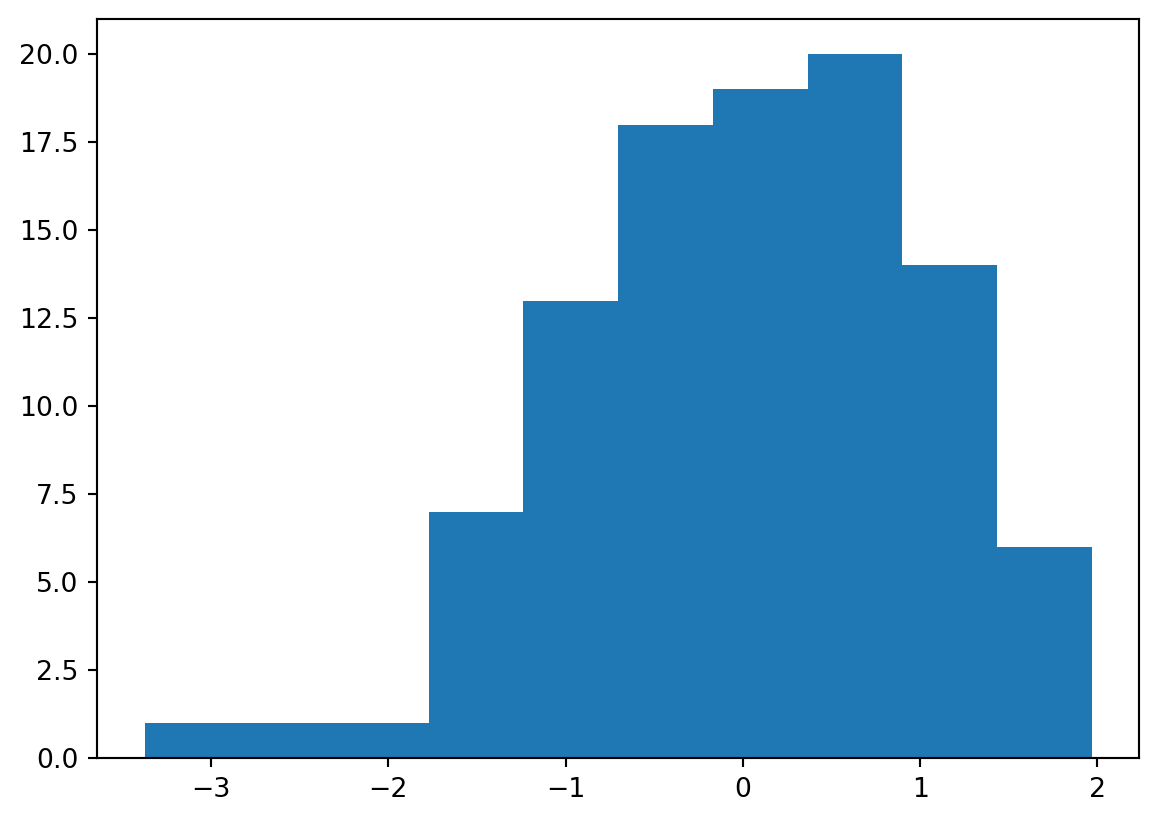
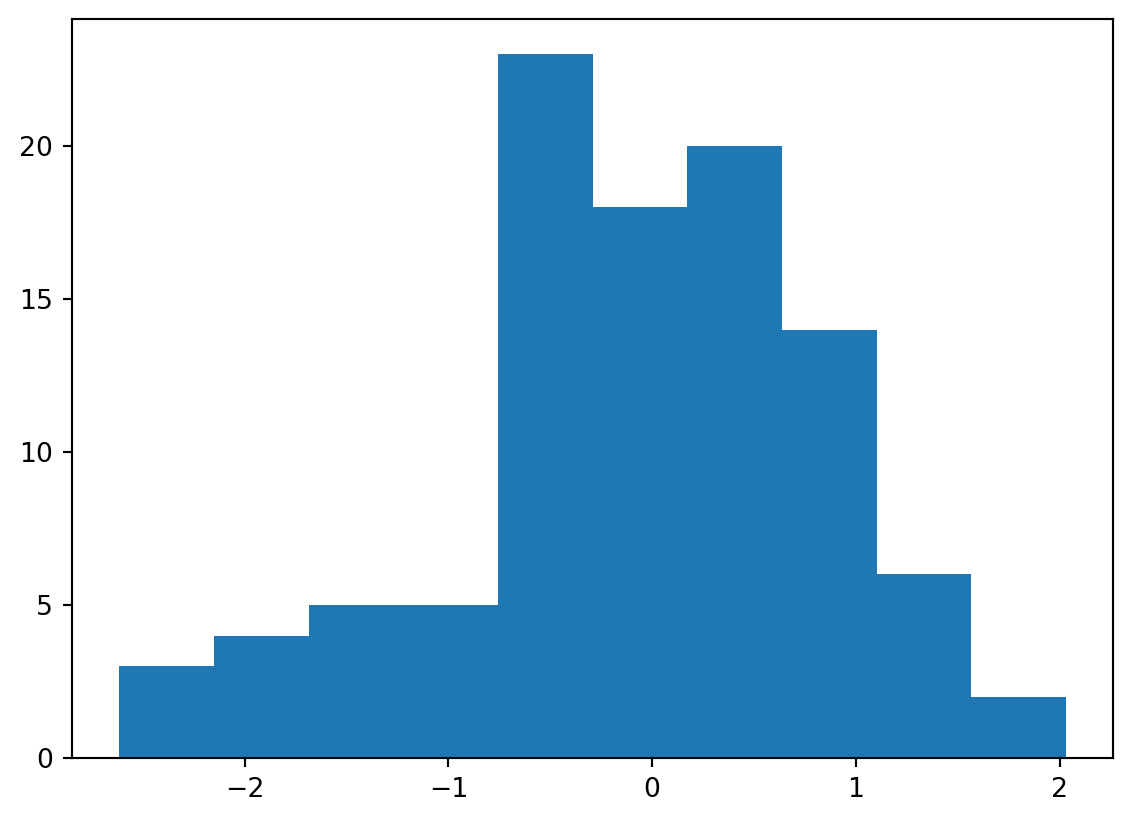
Built site for gh-pages

diff --git a/units/unit1.html b/units/unit1.html
@@ -254,6 +254,7 @@ window.Quarto = {
   <li><a href="#styled-div-via-direct-html" id="toc-styled-div-via-direct-html" class="nav-link" data-scroll-target="#styled-div-via-direct-html">Styled div via direct html</a></li>
   <li><a href="#a-callout" id="toc-a-callout" class="nav-link" data-scroll-target="#a-callout">A callout</a></li>
   <li><a href="#tabset" id="toc-tabset" class="nav-link" data-scroll-target="#tabset">Tabset</a></li>
+  <li><a href="#a-basic-markdown-table" id="toc-a-basic-markdown-table" class="nav-link" data-scroll-target="#a-basic-markdown-table">A basic Markdown table</a></li>
   </ul>
 </nav>
     </div>
@@ -283,7 +284,7 @@ window.Quarto = {
 <p>This is an example of using qmd as the source document.</p>
 <section id="evaluated-python-code-chunk-with-a-plot" class="level2">
 <h2 class="anchored" data-anchor-id="evaluated-python-code-chunk-with-a-plot">Evaluated Python code chunk, with a plot</h2>
-<div id="28a2a1bc" class="cell" data-execution_count="1">
+<div id="36c41697" class="cell" data-execution_count="1">
 <details open="" class="code-fold">
 <summary>Code</summary>
 <div class="sourceCode cell-code" id="cb1"><pre class="sourceCode python code-with-copy"><code class="sourceCode python"><span id="cb1-1"><a href="#cb1-1" aria-hidden="true" tabindex="-1"></a><span class="im">import</span> numpy <span class="im">as</span> np</span>
@@ -296,12 +297,12 @@ window.Quarto = {
 <div class="cell-output cell-output-display">
 <div>
 <figure class="figure">
-<p><img src="unit1_files/figure-html/cell-2-output-1.png" width="566" height="411" class="figure-img"></p>
+<p><img src="unit1_files/figure-html/cell-2-output-1.png" width="566" height="413" class="figure-img"></p>
 </figure>
 </div>
 </div>
 <div class="cell-output cell-output-display" data-execution_count="1">
-<pre><code>-0.10771421685487213</code></pre>
+<pre><code>-0.011892227522277109</code></pre>
 </div>
 </div>
 </section>
@@ -354,7 +355,7 @@ Tip with Title
 </div>
 <div id="tabset-1-2" class="tab-pane" role="tabpanel" aria-labelledby="tabset-1-2-tab">
 <p>This code is executed.</p>
-<div id="4d13e853" class="cell" data-execution_count="2">
+<div id="9e02d725" class="cell" data-execution_count="2">
 <details open="" class="code-fold">
 <summary>Code</summary>
 <div class="sourceCode cell-code" id="cb4"><pre class="sourceCode python code-with-copy"><code class="sourceCode python"><span id="cb4-1"><a href="#cb4-1" aria-hidden="true" tabindex="-1"></a><span class="kw">def</span> fizz_buzz(num):</span>
@@ -376,6 +377,39 @@ Tip with Title
 </div>
 </div>
 </div>
+</section>
+<section id="a-basic-markdown-table" class="level2">
+<h2 class="anchored" data-anchor-id="a-basic-markdown-table">A basic Markdown table</h2>
+<table class="caption-top table">
+<thead>
+<tr class="header">
+<th>Default</th>
+<th style="text-align: left;">Left</th>
+<th style="text-align: right;">Right</th>
+<th style="text-align: right;">Center</th>
+</tr>
+</thead>
+<tbody>
+<tr class="odd">
+<td>12</td>
+<td style="text-align: left;">12</td>
+<td style="text-align: right;">12</td>
+<td style="text-align: right;">12</td>
+</tr>
+<tr class="even">
+<td>123</td>
+<td style="text-align: left;">123</td>
+<td style="text-align: right;">123</td>
+<td style="text-align: right;">123</td>
+</tr>
+<tr class="odd">
+<td>1</td>
+<td style="text-align: left;">1</td>
+<td style="text-align: right;">1</td>
+<td style="text-align: right;">1</td>
+</tr>
+</tbody>
+</table>
 
 
 <!-- -->
@@ -940,6 +974,14 @@ window.document.addEventListener("DOMContentLoaded", function (event) {
 <span id="cb6-88"><a href="#cb6-88" aria-hidden="true" tabindex="-1"></a><span class="in">```</span></span>
 <span id="cb6-89"><a href="#cb6-89" aria-hidden="true" tabindex="-1"></a></span>
 <span id="cb6-90"><a href="#cb6-90" aria-hidden="true" tabindex="-1"></a>:::</span>
+<span id="cb6-91"><a href="#cb6-91" aria-hidden="true" tabindex="-1"></a></span>
+<span id="cb6-92"><a href="#cb6-92" aria-hidden="true" tabindex="-1"></a><span class="fu">## A basic Markdown table</span></span>
+<span id="cb6-93"><a href="#cb6-93" aria-hidden="true" tabindex="-1"></a></span>
+<span id="cb6-94"><a href="#cb6-94" aria-hidden="true" tabindex="-1"></a>| Default | Left | Right | Center |</span>
+<span id="cb6-95"><a href="#cb6-95" aria-hidden="true" tabindex="-1"></a>|----|:--|---:|-----------------------:|</span>
+<span id="cb6-96"><a href="#cb6-96" aria-hidden="true" tabindex="-1"></a>| 12      | 12   |    12 |   12   |</span>
+<span id="cb6-97"><a href="#cb6-97" aria-hidden="true" tabindex="-1"></a>| 123     | 123  |   123 |  123   |</span>
+<span id="cb6-98"><a href="#cb6-98" aria-hidden="true" tabindex="-1"></a>| 1       | 1    |     1 |   1    |</span>
 </code><button title="Copy to Clipboard" class="code-copy-button" data-in-quarto-modal=""><i class="bi"></i></button></pre></div>
 </div></div></div></div></div>
 </div> <!-- /content -->

diff --git a/index.html b/index.html
@@ -359,11 +359,11 @@ Welcome to Week 2
 
            <tr>
            
-           <th scope="row" rowspan="2">Aug 24:</th>
+           <th id="th-schedule" scope="row" rowspan="2">Aug 24:</th>
            
-           <td><strong class="label label-Lecture">Lecture 1</strong> <a href="./units/unit1.html" target="_blank">Introduction</a></td>
+           <td id="td-schedule"><strong class="label label-Lecture">Lecture 1</strong> <a href="./units/unit1.html" target="_blank">Introduction</a></td>
            
-                <td>
+                <td id="td-schedule">
                 
                   <a href="https://berkeley.edu">Note 1</a>
                   
@@ -377,7 +377,7 @@ Welcome to Week 2
 
            <tr>
            
-           <td><strong class="label label-Participation">Participation 1</strong> <a href="https://berkeley.edu" target="_blank">Lecture Participation 1</a></td>
+           <td id="td-schedule"><strong class="label label-Participation">Participation 1</strong> <a href="https://berkeley.edu" target="_blank">Lecture Participation 1</a></td>
            
                 <td></td>
            
@@ -390,19 +390,9 @@ Welcome to Week 2
 
            <tr>
            
-           <th scope="row" rowspan="3">Aug 25:</th>
+           <th id="th-schedule" scope="row" rowspan="3">Aug 25:</th>
            
-           <td><strong class="label label-Lab">Lab 1</strong> <a href="https://berkeley.edu" target="_blank">Prerequisite Coding (due Aug 29)</a></td>
-           
-                <td></td>
-           
-                
-           </tr>
-        
-
-           <tr>
-           
-           <td><strong class="label label-Homework">Homework 1A</strong> <a href="https://berkeley.edu" target="_blank">Plotting and Permutation Test (due Aug 31)</a></td>
+           <td id="td-schedule"><strong class="label label-Lab">Lab 1</strong> <a href="https://berkeley.edu" target="_blank">Prerequisite Coding (due Aug 29)</a></td>
            
                 <td></td>
            
@@ -412,7 +402,17 @@ Welcome to Week 2
 
            <tr>
            
-           <td><strong class="label label-Homework">Homework 1B</strong> <a href="https://berkeley.edu" target="_blank">Prerequisite Math (due Aug 31)</a></td>
+           <td id="td-schedule"><strong class="label label-Homework">Homework 1A</strong> <a href="https://berkeley.edu" target="_blank">Plotting and Permutation Test (due Aug 31)</a></td>
+           
+                <td></td>
+           
+                
+           </tr>
+        
+
+           <tr>
+           
+           <td id="td-schedule"><strong class="label label-Homework">Homework 1B</strong> <a href="https://berkeley.edu" target="_blank">Prerequisite Math (due Aug 31)</a></td>
            
                 <td></td>
            
@@ -437,9 +437,9 @@ Welcome to Week 2
 
            <tr>
            
-           <th scope="row" rowspan="2">Aug 29:</th>
+           <th id="th-schedule" scope="row" rowspan="2">Aug 29:</th>
            
-           <td><strong class="label label-Lecture">Lecture 2</strong> <a href="./units/unit2.html" target="_blank">Pandas 1</a></td>
+           <td id="td-schedule"><strong class="label label-Lecture">Lecture 2</strong> <a href="./units/unit2.html" target="_blank">Pandas 1</a></td>
            
                 <td></td>
            
@@ -449,9 +449,9 @@ Welcome to Week 2
 
            <tr>
            
-           <td><strong class="label label-Participation">Participation 2</strong> <a href="./units/unit3.html" target="_blank">Lecture Participation 2</a></td>
+           <td id="td-schedule"><strong class="label label-Participation">Participation 2</strong> <a href="./units/unit3.html" target="_blank">Lecture Participation 2</a></td>
            
-                <td>
+                <td id="td-schedule">
                 
                 </td>
            

diff --git a/units/unit3.html b/units/unit3.html
@@ -285,7 +285,7 @@ $$
 <p>This is an example of using qmd as the source document with pdf as one target. I’ve taken out the qmd stuff that doesn’t seem to render to pdf.</p>
 <section id="evaluated-python-code-chunk-with-a-plot" class="level2">
 <h2 class="anchored" data-anchor-id="evaluated-python-code-chunk-with-a-plot">Evaluated Python code chunk, with a plot</h2>
-<div id="23564796" class="cell" data-execution_count="1">
+<div id="6c27a822" class="cell" data-execution_count="1">
 <details open="" class="code-fold">
 <summary>Code</summary>
 <div class="sourceCode cell-code" id="cb1"><pre class="sourceCode python code-with-copy"><code class="sourceCode python"><span id="cb1-1"><a href="#cb1-1" aria-hidden="true" tabindex="-1"></a><span class="im">import</span> numpy <span class="im">as</span> np</span>
@@ -298,12 +298,12 @@ $$
 <div class="cell-output cell-output-display">
 <div>
 <figure class="figure">
-<p><img src="unit3_files/figure-html/cell-2-output-1.png" width="579" height="411" class="figure-img"></p>
+<p><img src="unit3_files/figure-html/cell-2-output-1.png" width="566" height="411" class="figure-img"></p>
 </figure>
 </div>
 </div>
 <div class="cell-output cell-output-display" data-execution_count="1">
-<pre><code>0.02780378200781541</code></pre>
+<pre><code>-0.07562102396687749</code></pre>
 </div>
 </div>
 </section>
@@ -316,7 +316,7 @@ $$
 <section id="latex-macro" class="level2">
 <h2 class="anchored" data-anchor-id="latex-macro">LaTeX macro</h2>
 <blockquote class="blockquote">
-<p><strong>Warning</strong>: having <code>include-before-body</code> in the yaml header of this file causes extra space at top of page.</p>
+<p><strong>Warning</strong>: having <code>include-before-body</code> in the yaml header of this file, as seemingly needed to enable macros, causes extra space at top of page.</p>
 </blockquote>
 <p><span class="math display">\[
 A = X \trans Y
@@ -836,7 +836,7 @@ window.document.addEventListener("DOMContentLoaded", function (event) {
 <span id="cb3-37"><a href="#cb3-37" aria-hidden="true" tabindex="-1"></a></span>
 <span id="cb3-38"><a href="#cb3-38" aria-hidden="true" tabindex="-1"></a><span class="fu">## LaTeX macro</span></span>
 <span id="cb3-39"><a href="#cb3-39" aria-hidden="true" tabindex="-1"></a></span>
-<span id="cb3-40"><a href="#cb3-40" aria-hidden="true" tabindex="-1"></a><span class="at">&gt; **Warning**: having </span><span class="in">`include-before-body`</span><span class="at"> in the yaml header of this file causes extra space at top of page.</span></span>
+<span id="cb3-40"><a href="#cb3-40" aria-hidden="true" tabindex="-1"></a><span class="at">&gt; **Warning**: having </span><span class="in">`include-before-body`</span><span class="at"> in the yaml header of this file, as seemingly needed to enable macros, causes extra space at top of page.</span></span>
 <span id="cb3-41"><a href="#cb3-41" aria-hidden="true" tabindex="-1"></a></span>
 <span id="cb3-42"><a href="#cb3-42" aria-hidden="true" tabindex="-1"></a>$$</span>
 <span id="cb3-43"><a href="#cb3-43" aria-hidden="true" tabindex="-1"></a>A = X \trans Y</span>

diff --git a/assets/styles.css b/assets/styles.css
@@ -10,15 +10,15 @@
 .label-Homework { background-color: #E62100}
 
 
-th {
+#th-schedule {
     width: 10%;
 }
 
-td:first-of-type {
+#td-schedule:first-of-type {
     width: 60%;
 }
 
-td:last-of-type {
+#td-schedule:last-of-type {
     width: 30%;
 }
 
